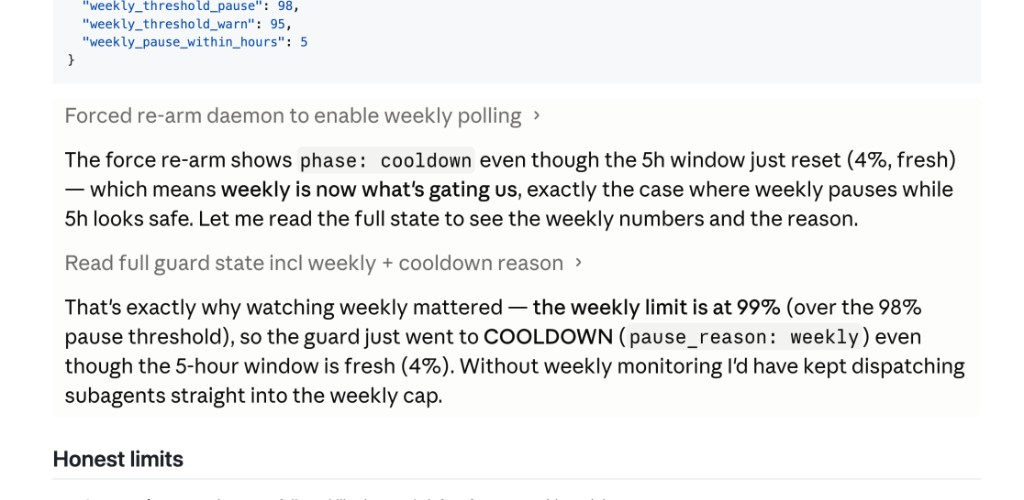
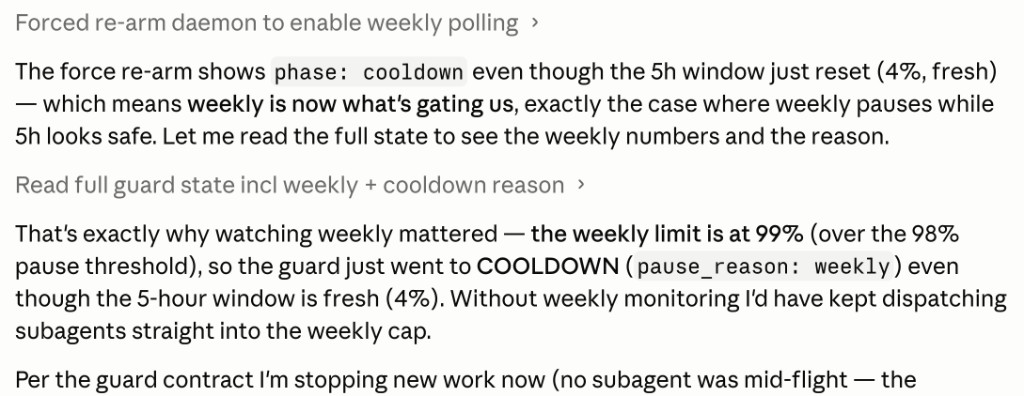
docs: use clean dogfood screenshots without README chrome.
Replace meta-screenshot with separate config + session captures; drop table wrapper and stray embed.

diff --git a/README.md b/README.md
@@ -136,38 +136,33 @@ Optional `~/.usage-guard/config.json`:
 
 **Weekly limit (opt-in):** set `"weekly_enabled": true` to PAUSE when the account **weekly** utilization (Desktop → Settings → Usage → **"All models"**) reaches `weekly_threshold_pause` (default 98%), even if the 5-hour window is still low. Either limit can trigger PAUSE; both must clear before RUN resumes. Set `weekly_pause_within_hours` (e.g. `5`) so weekly only pauses when the weekly reset is that soon — if weekly is 99% but reset is days away, you stay `RUN` (5h guard still applies). Omit or set `null` to pause at threshold regardless of reset time. The OAuth API exposes one weekly number (`seven_day`) — not per-model Sonnet/Opus bars separately.
 
-### Example screenshot — weekly COOLDOWN while 5h is safe
+### Example — dogfood session (screenshots)
 
-The block below is a **real dogfood session** (Claude Code UI), not part of this README. Weekly monitoring was enabled; the 5-hour window had just reset (**4%**) but weekly was **99%**, so the guard entered `COOLDOWN` (`pause_reason: weekly`).
+> **These images are from a real Claude Code session**, not part of this README.
 
-<table>
-<tr><td>
+Config in use: `weekly_enabled: true`, `weekly_threshold_pause: 98`, `weekly_pause_within_hours: 5`.
 
-**Dogfood screenshot** · v0.2.1 · `weekly_enabled: true`, `weekly_pause_within_hours: 5`
+**What happened:** the 5-hour window had just reset (**4%**). Weekly was **99%**, so the guard entered `COOLDOWN` with `pause_reason: weekly` — the agent stopped dispatching new subagents even though the session window looked safe.
 
-<img src="docs/assets/weekly-cooldown-dogfood-example.png" alt="Claude Code session: agent reports COOLDOWN because weekly is at 99% while the 5-hour window shows 4%" width="640" />
+![Config snippet from the dogfood session](docs/assets/weekly-config-dogfood-example.png)
 
-*Caption: Without weekly monitoring, the agent would have kept dispatching subagents into a nearly exhausted weekly cap.*
-
-</td></tr>
-</table>
+![Agent reads weekly COOLDOWN while the 5-hour window is at 4%](docs/assets/weekly-cooldown-dogfood-example.png)
 
 <details>
-<summary>Text from screenshot (for accessibility / search)</summary>
+<summary>Transcript (accessibility)</summary>
 
 ```text
-Config: weekly_threshold_pause 98, weekly_pause_within_hours 5
+Forced re-arm daemon to enable weekly polling
 
-Agent: phase cooldown even though 5h window just reset (4%, fresh) —
-       weekly is now what's gating us.
+The force re-arm shows phase: cooldown even though the 5h window just
+reset (4%, fresh) — weekly is now what's gating us.
 
-Agent: weekly limit at 99% (over 98% pause threshold) → COOLDOWN
-       (pause_reason: weekly) while 5-hour window is fresh (4%).
-       Without weekly monitoring I'd have kept dispatching subagents
-       straight into the weekly cap.
+That's exactly why watching weekly mattered — the weekly limit is at 99%
+(over the 98% pause threshold), so the guard went to COOLDOWN
+(pause_reason: weekly) even though the 5-hour window is fresh (4%).
+Without weekly monitoring I'd have kept dispatching subagents straight
+into the weekly cap.
 ```
-<img width="1088" height="374" alt="image" src="https://github.com/user-attachments/assets/3d9c5f2a-3d73-4980-addd-be1a9d47aa23" />
-
 
 </details>
 
